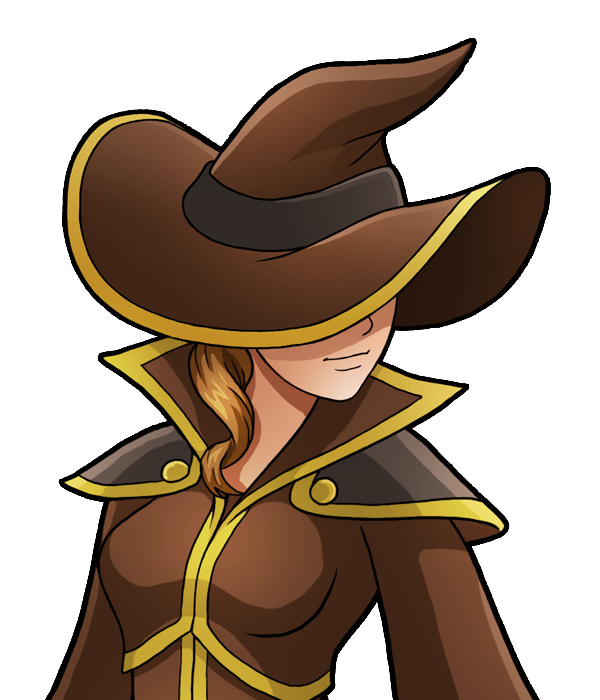
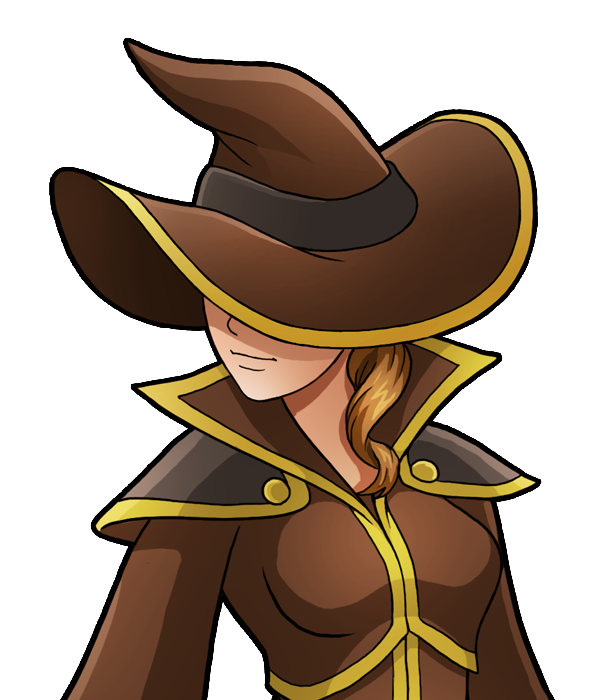
fix: 대화창 플레이어 스프라이트 플립문제 수정
대화창 플레이어 스프라이트 플립문제 수정 #31

diff --git a/Assets/Scripts/09_Dialogue/DialogueUI.cs b/Assets/Scripts/09_Dialogue/DialogueUI.cs
@@ -211,9 +211,6 @@ public class DialogueUI : MonoBehaviour
             playerImg.sprite = isExpert
                 ? pd.darkDialogSprite
                 : pd.brownDialogSprite;
-
-            // 좌우 반전
-            playerImg.rectTransform.localScale = new Vector3(-1, 1, 1);
         }
         else if (speaker == "NPC")
         {
